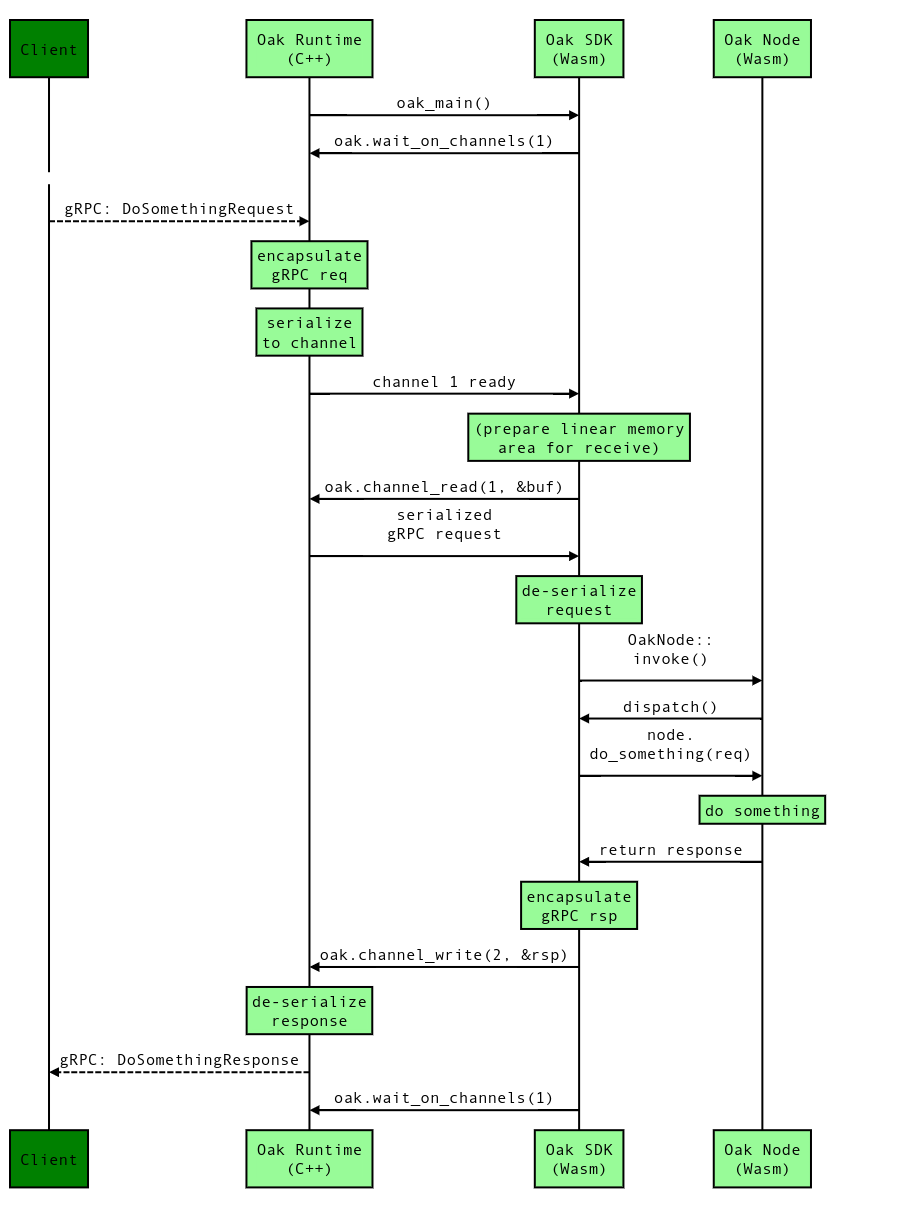
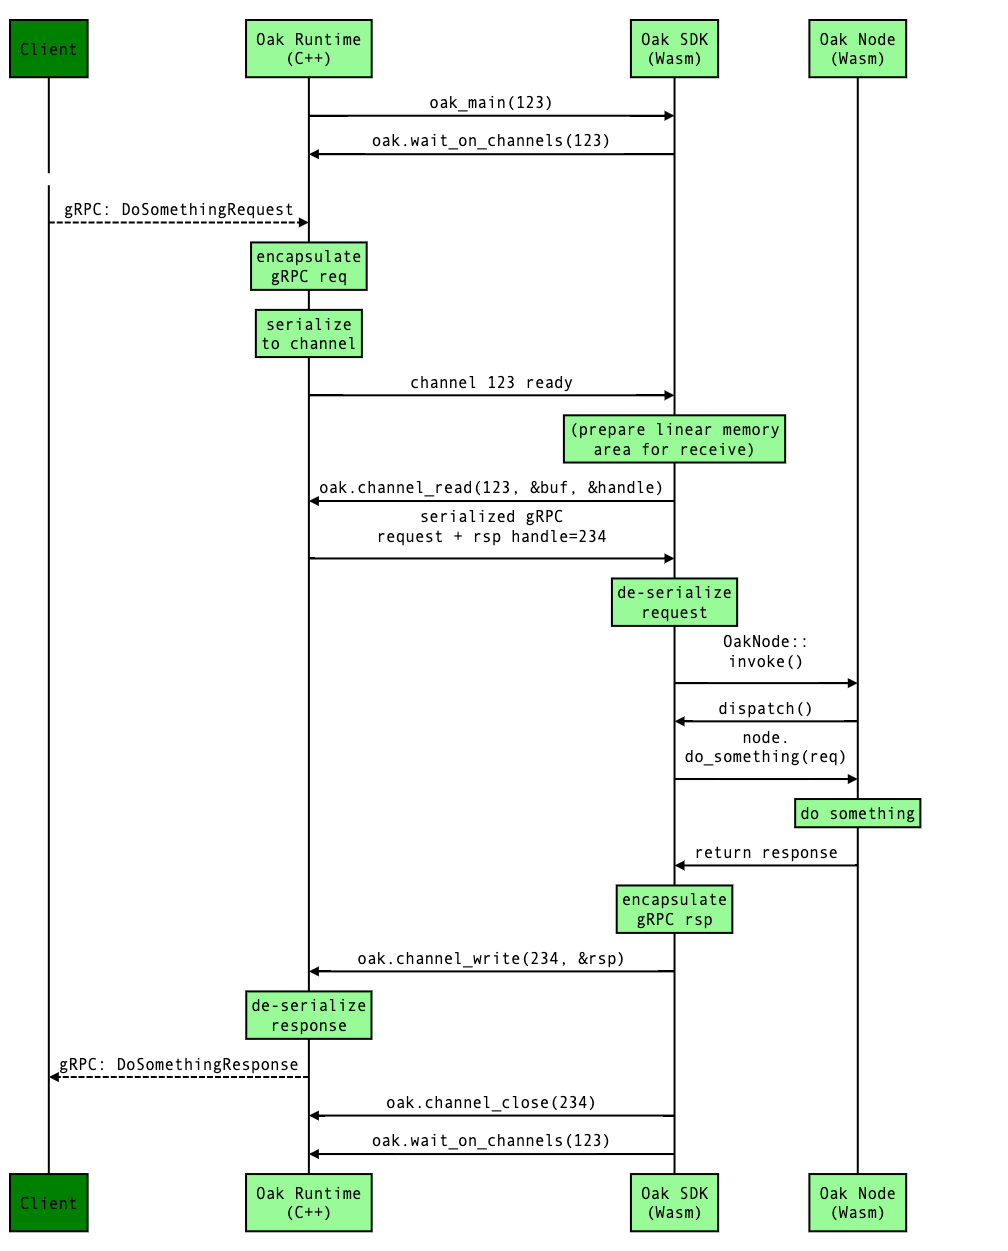
docs: more on Programming Oak
Also add mention of FD-like nature of channel handles in concepts.md.

Changed region(s): [[0.0, 0.0, 0.92, 1.0]]

diff --git a/docs/programming-oak.md b/docs/programming-oak.md
@@ -10,7 +10,7 @@ This document walks through the basics of programming in Oak.
   - [Starting the Oak Application](#starting-the-oak-application)
 - [gRPC Request Processing Path](#grpc-request-processing-path)
 - [Node Termination](#node-termination)
-- [Channels and Handles](#channels-and-handles)
+- [Nodes, Channels and Handles](#nodes-channels-and-handles)
 - [Persistent Storage](#persistent-storage)
 - [Testing](#testing)
   - [Testing Multi-Node Applications](#testing-multi-node-applications)
@@ -328,9 +328,95 @@ passes this on to the Oak Runtime, which will then notify the running Nodes that
 termination has been requested (by returning `ERR_TERMINATED` on any current or
 future `oak.wait_on_channels()` invocations).
 
-## Channels and Handles
+## Nodes, Channels and Handles
 
-TODO: explore the primitives available here
+So far, we've only discussed writing a single Node for an Oak Application. This
+Node communicates with the outside world via a single channel, and the handle
+for the read half of this channel is acquired at start-of-day as the parameter
+to the `oak_main()` entrypoint. The other half of this single channel is a gRPC
+pseudo-Node, which passes on requests from external clients (and which is
+automatically created by the Oak Runtime at Application start-of-day).
+
+More sophisticated Applications are normally built from multiple interacting
+Nodes, for several reasons:
+
+- Dividing software into well-defined interacting components is a normal way to
+  reduce the overall complexity of software design.
+- Software that handles sensitive data, or which has additional privileges,
+  often separates out the parts that deal with this (the
+  ["principle of least privilege"](https://en.wikipedia.org/wiki/Principle_of_least_privilege)),
+  to reduce the blast radius if something goes wrong.
+- Information flow analysis can be more precise and fine-grained if components
+  are smaller and the interactions between them are constrained.
+
+The first step in building a multi-Node Application is to write the code for all
+of the Nodes; the `ApplicationConfiguration` needs to include the configuration
+and code for any Node that might get run as part of the Application. New Node
+types cannot be added after the application starts; any Node that the
+Application might need has to be included in the original configuration.
+
+As before, each Node must include an `oak_main(u64) -> u32` entrypoint, but for
+an internal Node it's entirely up to the Application developer as to what
+channel handle gets passed to this entrypoint, and as to what messages are sent
+down that channel. The application may choose to use protobuf-encoded messages
+(as gRPC does) for its internal communications, or something else entirely (e.g.
+the [serde crate](https://crates.io/crates/serde)).
+
+Regardless of how the application communicates with the new Node, the typical
+pattern for the existing Node is to:
+
+- Create a new channel with the
+  [`channel_create`](https://project-oak.github.io/oak/sdk/oak/fn.channel_create.html)
+  host function, receiving local handles for both halves of the channel.
+- Create a new Node instance with the
+  [`node_create`](https://project-oak.github.io/oak/sdk/oak/fn.node_create.html)
+  host function, passing in the handle for the read half of the new channel.
+- Afterwards, close the local handle for the read half, as it is no longer
+  needed.
+
+For example, the [example Chat application](../examples/chat) creates a Node for
+each chat room and saves off the write handle that will be used to send messages
+to the room:
+
+<!-- prettier-ignore-start -->
+[embedmd]:# (../examples/chat/module/rust/src/lib.rs Rust /.*Create a new Node/ /^ +\);$/)
+```Rust
+        // Create a new Node for this room.
+        let (wh, rh) = oak::channel_create().unwrap();
+        oak::node_create("room-config", rh);
+        oak::channel_close(rh.handle);
+
+        self.rooms.insert(
+            req.admin_id.clone(),
+            RoomRef {
+                name: req.name,
+                channel: wh,
+            },
+        );
+```
+<!-- prettier-ignore-end-->
+
+The same code (identified by `"room-config"`) will be run for each per-room
+Node, but each instance will have its own Web Assembly linear memory (≈heap) and
+stack.
+
+The `node_create()` call triggers the Oak Runtime to invoke the `oak_main()`
+entrypoint for the new Node, passing in the handle value for the channel read
+half that was provided as a parameter to `node_create()`. Note that the actual
+handle _value_ passed into `oak_main()` will (almost certainly) be different;
+internally, the Runtime translates the creator Node's handle value to a
+reference to the underlying channel object, then assigns a new numeric value for
+the created Node to use to refer to the underlying channel.
+
+Once a new Node has started, the existing Node can communicate with the new Node
+by sending messages over the channel via `channel_write`. Of course, the new
+Node only has a handle to the read half of a channel, and so only has a way of
+_receiving_.
+
+To cope with this, it's normal for the inbound messages to be accompanied by a
+handle for the _write_ half of a different channel, which is then used for
+responses &ndash; so the new Node has a way of _sending_ externally, as well as
+receiving.
 
 ## Persistent Storage
 

diff --git a/docs/concepts.md b/docs/concepts.md
@@ -62,7 +62,10 @@ implemented via **channels**. A channel represents a uni-directional stream of
 messages, with a receive half and a send half that an Oak Node can read from or
 write to respectively. Each half of a channel is identified by a **handle**,
 which is used as a parameter to the corresponding
-[host function](abi.md#host-functions) calls.
+[host function](abi.md#host-functions) calls. Channel handles are integer values
+that are specific to a particular Node (like per-process UNIX file descriptors),
+so handle value 3 for Node A identify a different channel than handle value 3
+for Node B (unless there happens to be a coincidence of numbering).
 
 ## Pseudo-Nodes
 
